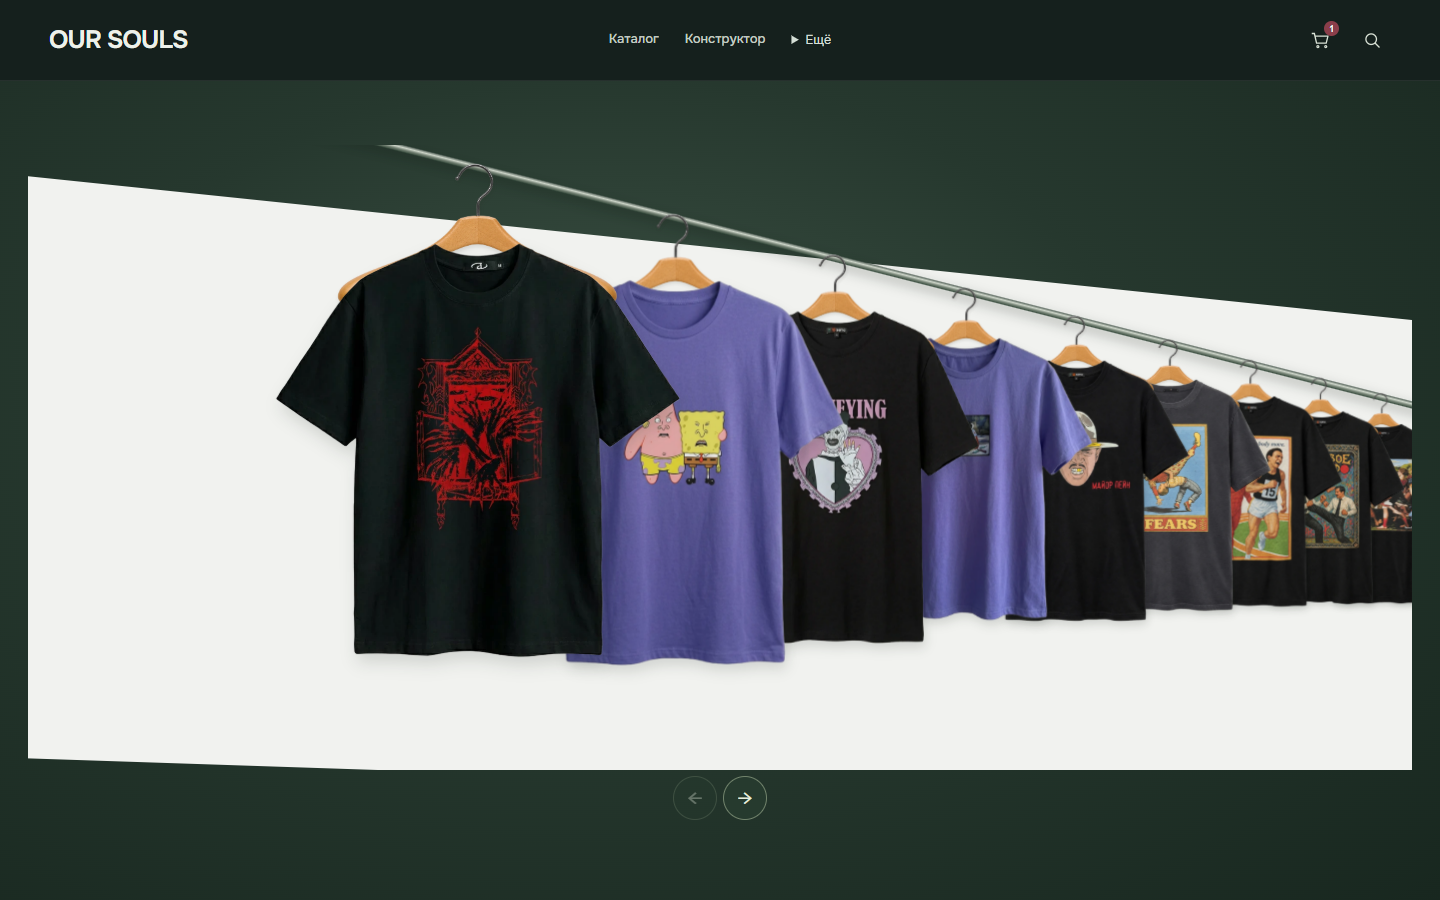
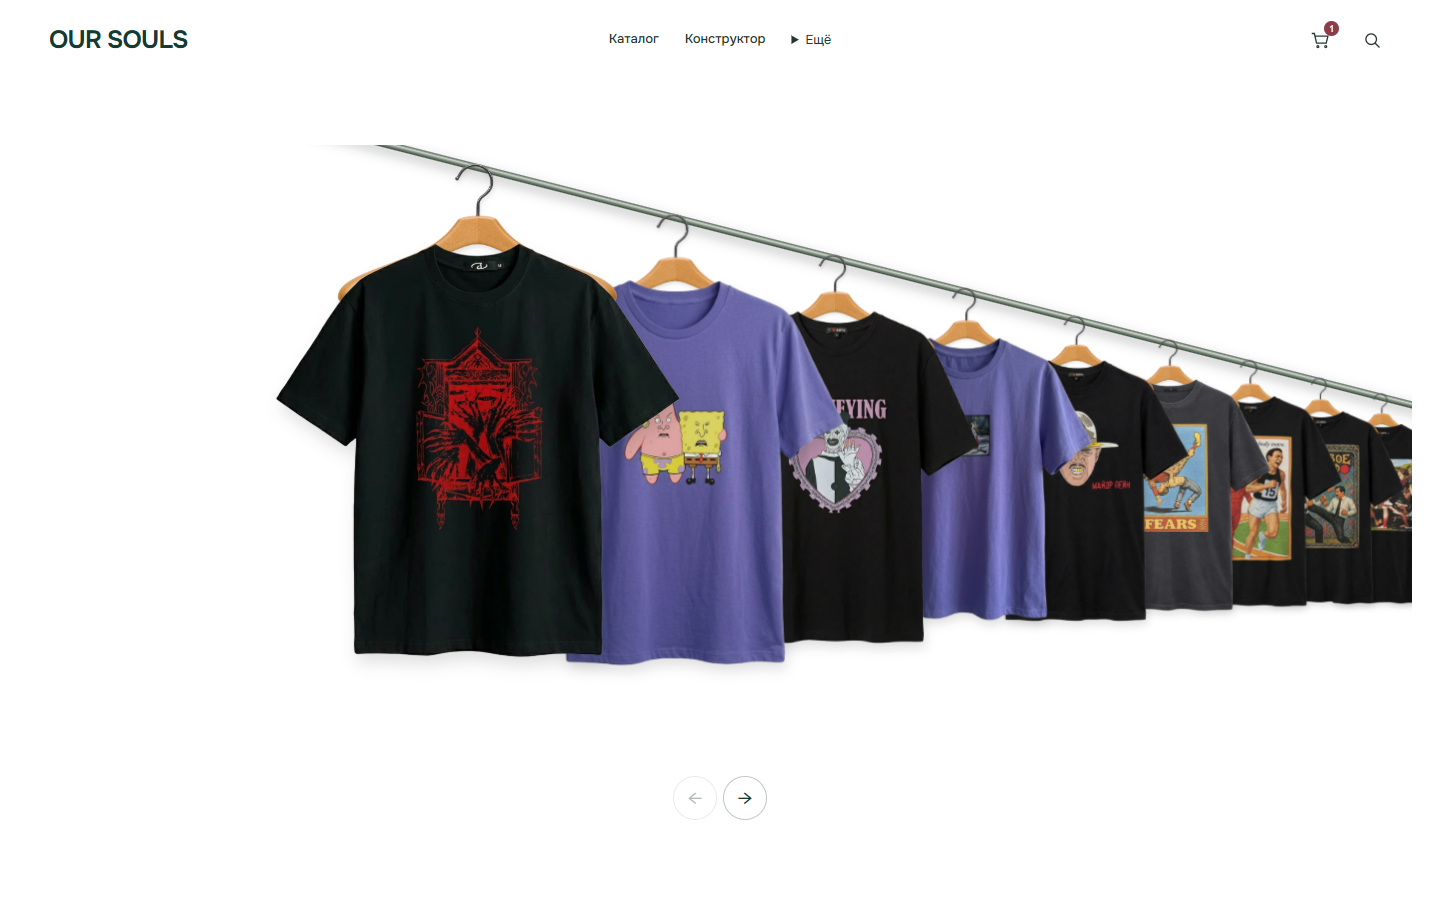
Return rack homepage to a fully white canvas

diff --git a/static/theme/studio.css b/static/theme/studio.css
@@ -281,8 +281,18 @@ body.os-editorial .product-card .product-image,body.os-editorial .product-galler
 
 /* Trim the exterior fringe of the eight legacy alpha mattes only. */
 
-/* A light diagonal studio backdrop stays behind every garment. */
-body.page-home .rack-track::before{content:"";position:absolute;inset:0 -60px;z-index:0;background:#f1f2ef;clip-path:polygon(0 4%,100% 29%,100% calc(var(--rack-band-bottom,94%) + 8%),0 var(--rack-band-bottom,94%));pointer-events:none}
 body.page-home .is-depth.is-moving .rack-piece{transition:none}
 body.page-home .rack-piece [data-rack-photo]{filter:drop-shadow(3px 9px 8px #16221824)}
-@media(max-width:600px){body.page-home .rack-track::before{inset:0 -25px;clip-path:polygon(0 2%,100% 14%,100% calc(var(--rack-band-bottom,75%) + 8%),0 var(--rack-band-bottom,75%))}}
+
+/* White homepage canvas; ready for the next graphic layers. */
+body.os-editorial.page-home{background:#fff}
+body.os-editorial.page-home .rack-section,body.os-editorial.page-home .rack-section.is-depth{background:#fff;color:#202927}
+body.os-editorial.page-home .site-header{background:#fff;color:#202927;border-bottom-color:transparent}
+body.os-editorial.page-home .site-header .wordmark{color:#173b33}
+body.os-editorial.page-home .site-header .site-nav a,body.os-editorial.page-home .header-actions a,body.os-editorial.page-home .mobile-menu-toggle,body.os-editorial.page-home .nav-more{color:#26382e}
+body.os-editorial.page-home .site-header .site-nav a:hover,body.os-editorial.page-home .site-header .site-nav a[aria-current]{color:#173b33}
+body.os-editorial.page-home .nav-more>div{background:#fff;border-color:#c4cec7;box-shadow:0 12px 26px #173b3314}
+body.os-editorial.page-home .rack-navigation button{background:#fff;border-color:#bec9c0;color:#173b33}
+body.os-editorial.page-home .rack-navigation button:hover:not(:disabled){background:#edf2ee}
+body.os-editorial.page-home .rack-track:focus-visible,body.os-editorial.page-home .rack-piece:focus-visible,body.os-editorial.page-home .rack-navigation button:focus-visible,body.os-editorial.page-home .site-header :focus-visible{outline-color:#355b42}
+@media(max-width:800px){body.os-editorial.page-home .site-header .site-nav{background:#fff;border-color:#dce3dd}}

diff --git a/static/rack/rack.js b/static/rack/rack.js
@@ -8,7 +8,7 @@ if(root?.querySelector('[data-rack-data]')){
  const q=name=>root.querySelector('[data-rack-'+name+']');
  const form=q('form'),large=q('large'),zoom=root.querySelector('.rack-zoom'),rail=root.querySelector('.rack-rail');
  const reduced=matchMedia('(prefers-reduced-motion: reduce)'),mobile=matchMedia('(max-width: 700px)');
- const variants=new Map(),sizes=new Map(),activePieces=new Set(),preparedPieces=new Set();let warmStamp='',lastBandSize='',lastFrameTime=0,instantTarget=false,wheelDirection=0;let detailsKey='';
+ const variants=new Map(),sizes=new Map(),activePieces=new Set(),preparedPieces=new Set();let warmStamp='',lastFrameTime=0,instantTarget=false,wheelDirection=0;let detailsKey='';
  let phase=0,visualPhase=0,animation=null,previewIndex=0,hovered=-1,picked=false,width=0,height=0,frame=0,drag=null,wheelTimer,suppressClick=false;
 
  if(!q('return')){const button=document.createElement('button');button.type='button';button.className='rack-return';button.dataset.rackReturn='';button.textContent='← Вернуть на вешалку';button.hidden=true;root.querySelector('.rack-wardrobe').append(button)}
@@ -91,11 +91,6 @@ if(root?.querySelector('[data-rack-data]')){
   const startX=front.x-width*.35,startY=front.y-width*.35*slope,length=width*1.28;
   rail.style.cssText=`left:${startX}px;top:${startY}px;width:${length}px;transform:rotate(${Math.atan(slope)*180/Math.PI}deg)`;
   track.style.setProperty('--piece-width',front.pieceWidth+'px');
-  const bandSize=width+':'+height;
-  if(bandSize!==lastBandSize){
-   let bottom=0;for(let i=0;i<10;i++){const p=rackLayout(i,0,width,height);bottom=Math.max(bottom,p.y+p.pieceWidth*1.38*p.scale)}
-   track.style.setProperty('--rack-band-bottom',Math.min(height,bottom+32)+'px');lastBandSize=bandSize;
-  }
   const nearest=Math.round(visualPhase);
   pieces.forEach((piece,i)=>{
    const nearby=i>=Math.floor(visualPhase)-1&&i<=Math.ceil(visualPhase)+9;

diff --git a/templates/base.html b/templates/base.html
@@ -22,7 +22,7 @@
   <link rel="stylesheet" href="/static/theme/shop-2d.css?v=2">
   {% if request.endpoint == 'constructor' %}<link rel="stylesheet" href="/static/studio/journey.css?v=1">{% endif %}
   {% if request.endpoint == "home" %}<link rel="stylesheet" href="/static/rack/rack.css?v=6">{% endif %}
-  <link rel="stylesheet" href="/static/theme/studio.css?v=2">
+  <link rel="stylesheet" href="/static/theme/studio.css?v=3">
 </head>
 <body class="os-editorial page-{{ request.endpoint }}">
 <a class="skip-link" href="#main">Перейти к содержимому</a>

diff --git a/templates/home.html b/templates/home.html
@@ -1,3 +1,3 @@
 {% extends 'base.html' %}
 {% block content %}<main id="main">{% include "rack.html" %}</main>
-<script type="module" src="/static/rack/rack.js?v=6"></script>{% endblock %}
+<script type="module" src="/static/rack/rack.js?v=7"></script>{% endblock %}

diff --git a/DESIGN.md b/DESIGN.md
@@ -3,7 +3,7 @@
 - Theme: dark graphite/forest studio, natural beech hangers and steel rail. Product photographs carry colour; no light paper background or literary display serif.
 - Tokens: page #15201D, surface #1D2E22, scene #26382E–#3B5043, text #EDF1EA, secondary #B0BDB3, action #BACBB3, wine badge #8B3E4A.
 - Typeface: self-hosted Onest, SIL OFL included under static/theme/fonts. Interface 14–16 px, product names16–22 px; headings semibold. Tracking no tighter than−.04em.
-- A wide light diagonal studio band sits behind the photographic rack within the dark forest surround.
+- The homepage is a fully white canvas, including its compact header; dark forest text and controls retain the brand. No diagonal backdrop. Other shop pages retain the dark studio theme. Graphic layers around the rack are a future step.
 - The home route contains only the full-catalog photographic rack and navigation. Preserve wheel/swipe, keyboard selection, explicit return and reduced motion. No counter or marketing sections.
 - Catalogue: four/two-column photographs, one product link, name and truthful price; filters open on demand. Hash search opens and focuses the panel.
 - Product: one main photo, real thumbnails only, adjacent size/colour/order controls. Never fabricate available colours or prices.
